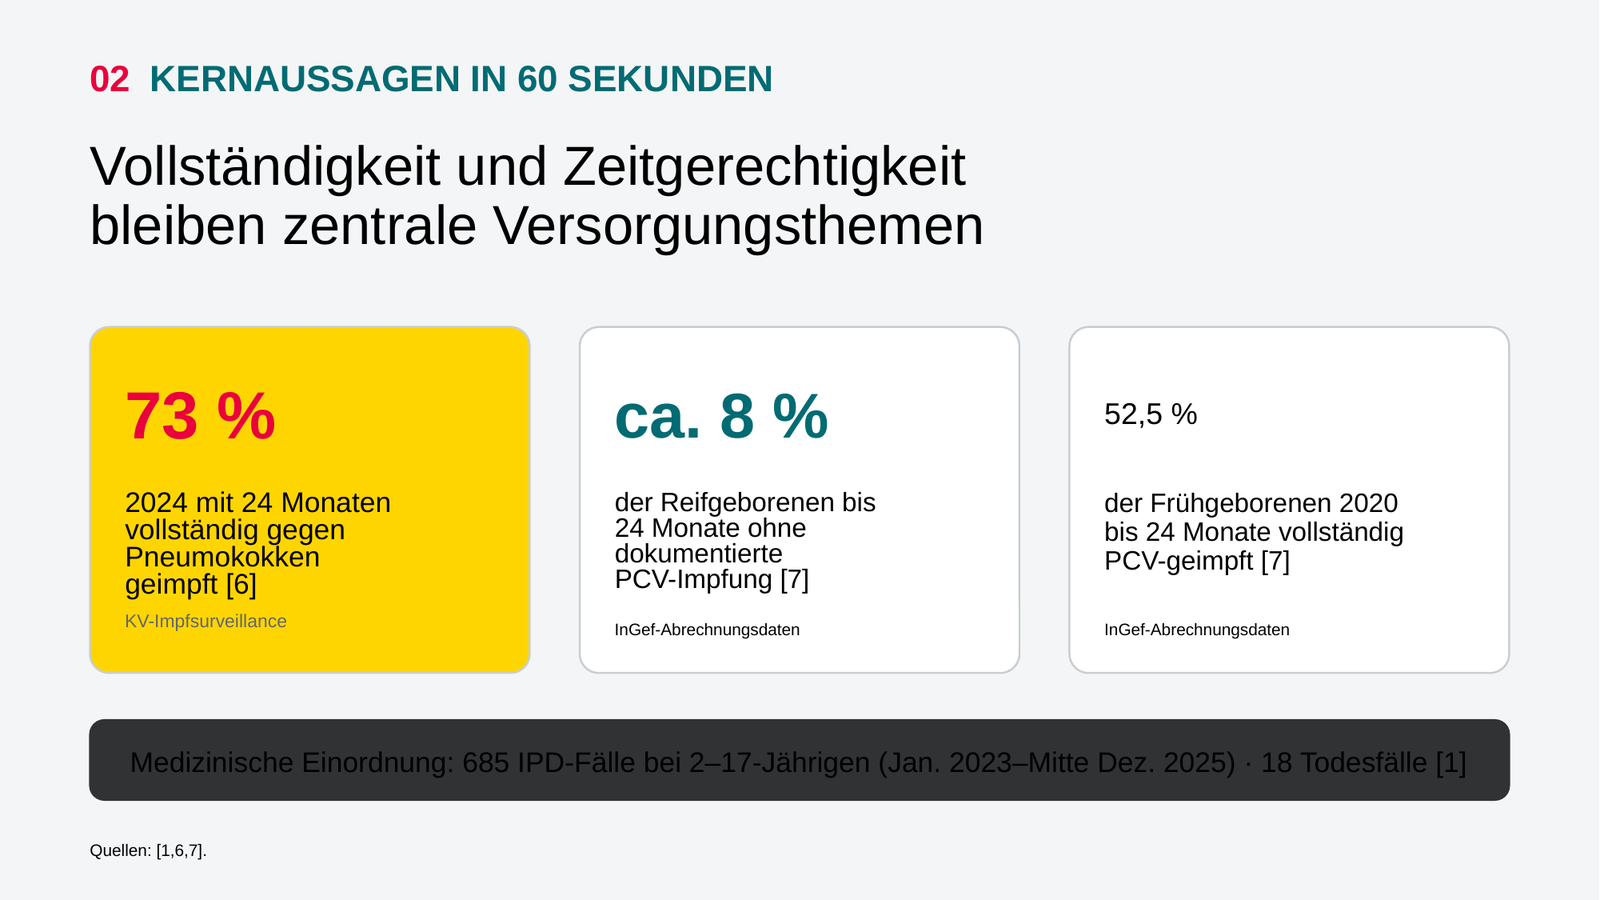
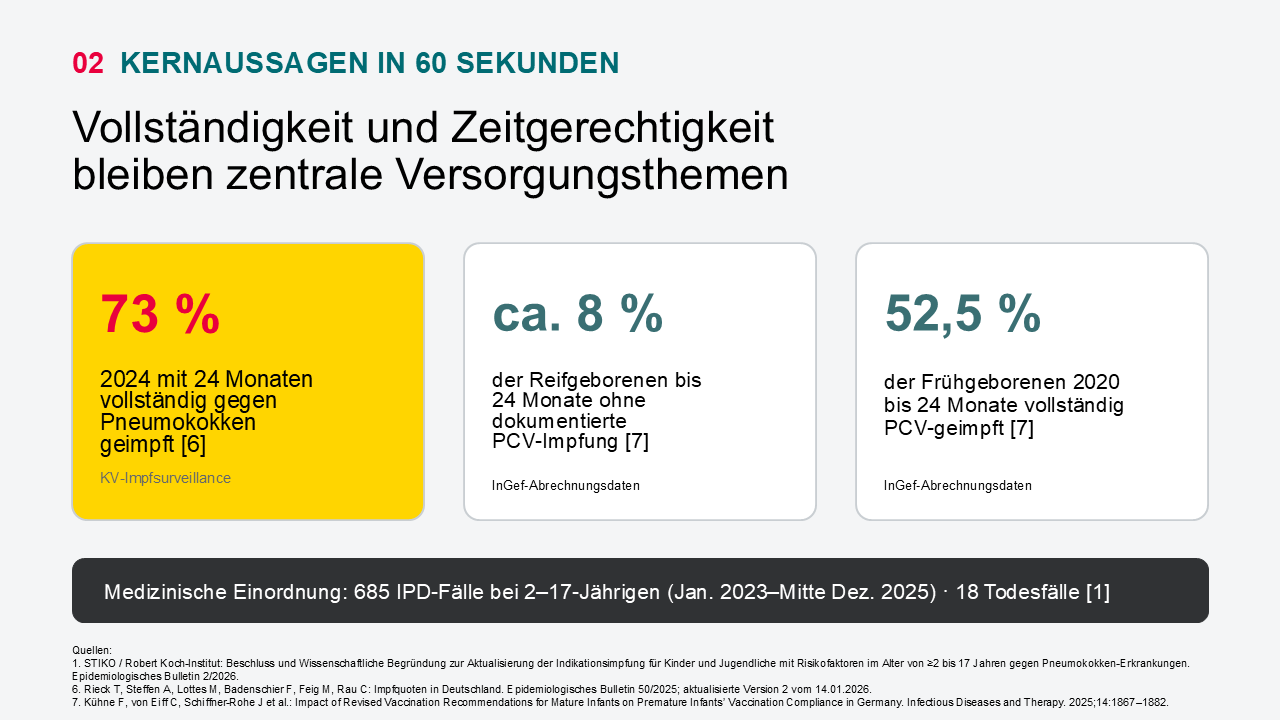
2026-09-15_pneumokokken-update-kinder_v0.18_Grafik

diff --git a/src/project.js b/src/project.js
@@ -14,6 +14,7 @@
  * v0.14: Mobile-Fix Praxis-Workflow: harte Breitenbegrenzung für Card, Inline-Grafik und Swipe-Komponenten gegen intrinsischen Horizontal-Overflow.
  * v0.15: Swipe-Richtung Praxis-Workflow auf Standard-Geste umgestellt: links = vorwärts, rechts = rückwärts; Hinweis unterhalb des Grafik-Elements zentriert.
  * v0.17: Ärztliche Finalredaktion mit Fokus auf publizierte/offizielle Quellen, aktualisierte STIKO 2026 Version 6 und nummerierte Quellenbelege im Text.
+ * v0.18: Austausch der final freigegebenen Kapitelgrafiken 02–12 auf Basis der neu gelieferten redigierten Visuals.
  *        sauberere Seitenumbrüche, klickbare Quellen und aktualisierte Impressumsdaten im PDF.
  *
  * WICHTIG VOR GO-LIVE:
@@ -36,7 +37,7 @@ export const project = {
     analyticsPage: "med-i-scroll-pneumokokken-update-kinder", // Legacy-Alias
     analyticsChapter1: "paediatrie-impfpraevention", // Legacy-Alias
     projectId: "pneumokokken-update-kinder",
-    contentVersion: "v0.17",
+    contentVersion: "v0.18",
     analytics: {
       page: "med.i.scroll | Pneumokokken-Impfung bei Kindern",
       pageType: "Microsite",

diff --git a/UPDATE-2026-09-15-v0.18_Grafikupdate.md b/UPDATE-2026-09-15-v0.18_Grafikupdate.md
@@ -1,0 +1,25 @@
+# Update v0.18 – Grafikupdate
+
+## Umgesetzt
+- Austausch aller final gelieferten Kapitelgrafiken **02 bis 12** in der Anwendung.
+- Übernommen wurden die neu redigierten/freigegebenen Visuals für:
+  - 02 Kernaussagen in 60 Sekunden
+  - 03 Pneumokokken verstehen
+  - 04 Serotypen im Wandel
+  - 05 Valenz & Evidenz
+  - 06 Standardimpfung
+  - 07 Praxis-FAQ
+  - 08 Risikokinder
+  - 09 STIKO 2026
+  - 10 Praxis-Workflow
+  - 11 Praxis-Fälle
+  - 12 CME vertiefen
+
+## Unverändert
+- Struktur der Anwendung
+- Inhalte / redaktioneller Stand der v0.17
+- Tracking / Piano-Analytics-Vorbereitung
+- PDF-Export-Logik
+
+## Hinweis
+- Diese Version dient als **komplette Projektfassung v0.18** mit aktualisiertem Bildstand.

diff --git a/PROJECT-STATUS.md b/PROJECT-STATUS.md
@@ -1,3 +1,8 @@
+## v0.18 – 15.09.2026
+- Austausch der final gelieferten Kapitelgrafiken 02–12 (PNG) in der Anwendung.
+- Inhalte/Tracking/Interaktionen aus v0.17 unverändert übernommen.
+- Neue Paketversion: v0.18.
+
 # Projektstatus – pneumokokken-update-kinder
 
 ## v0.10 – 14.09.2026
